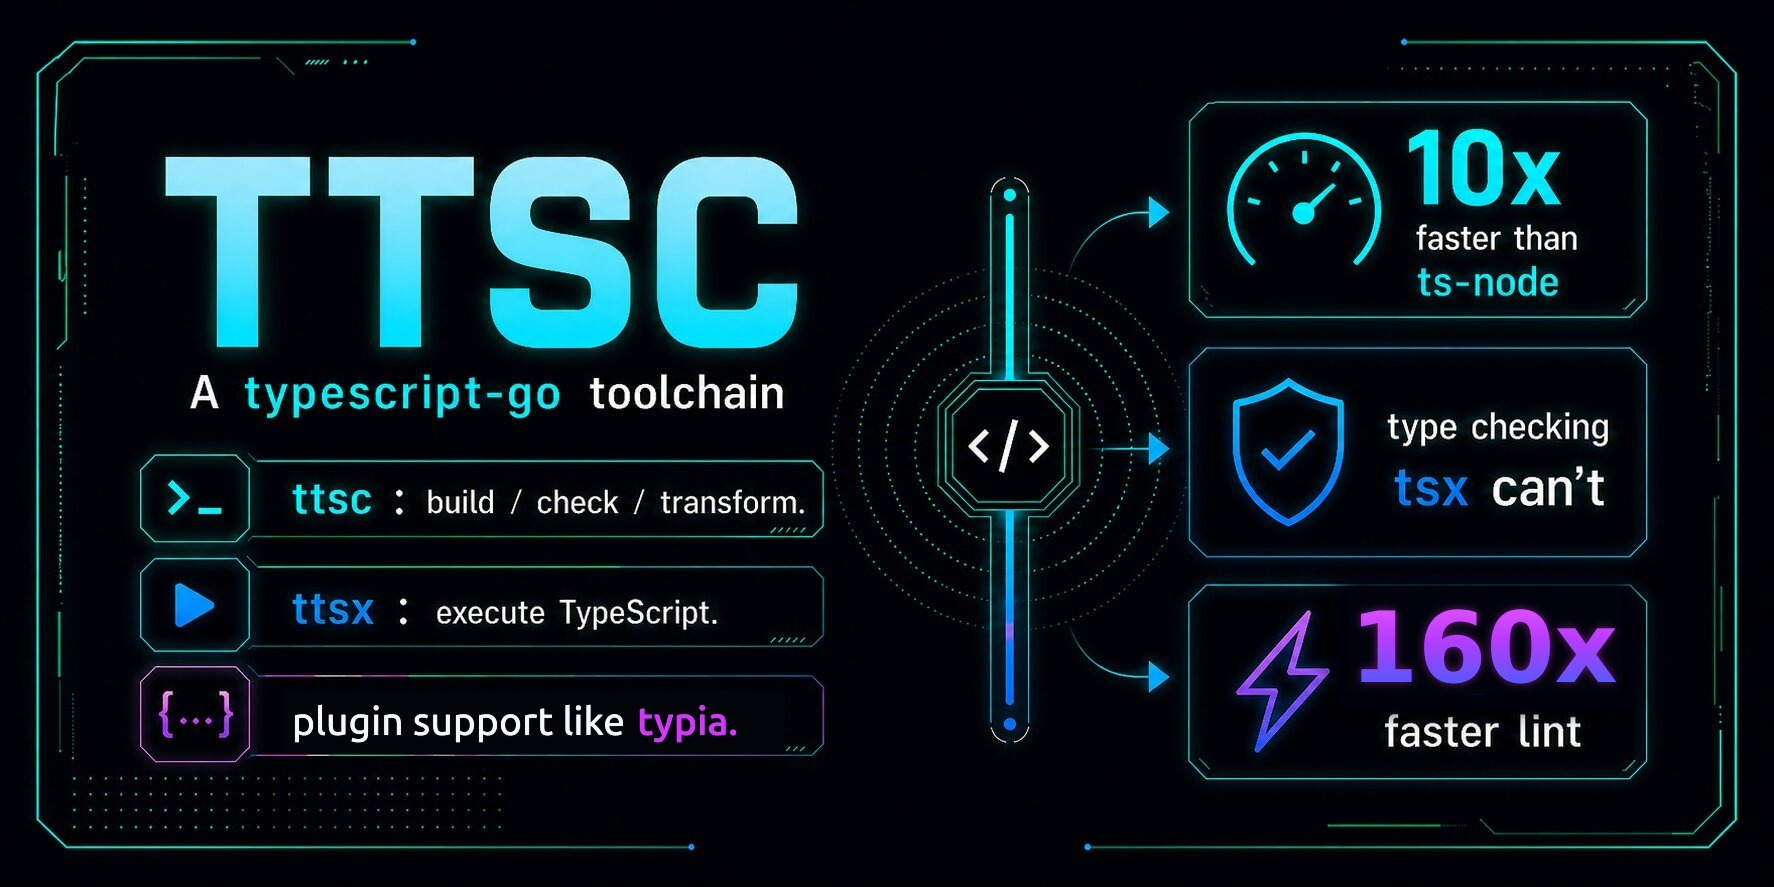
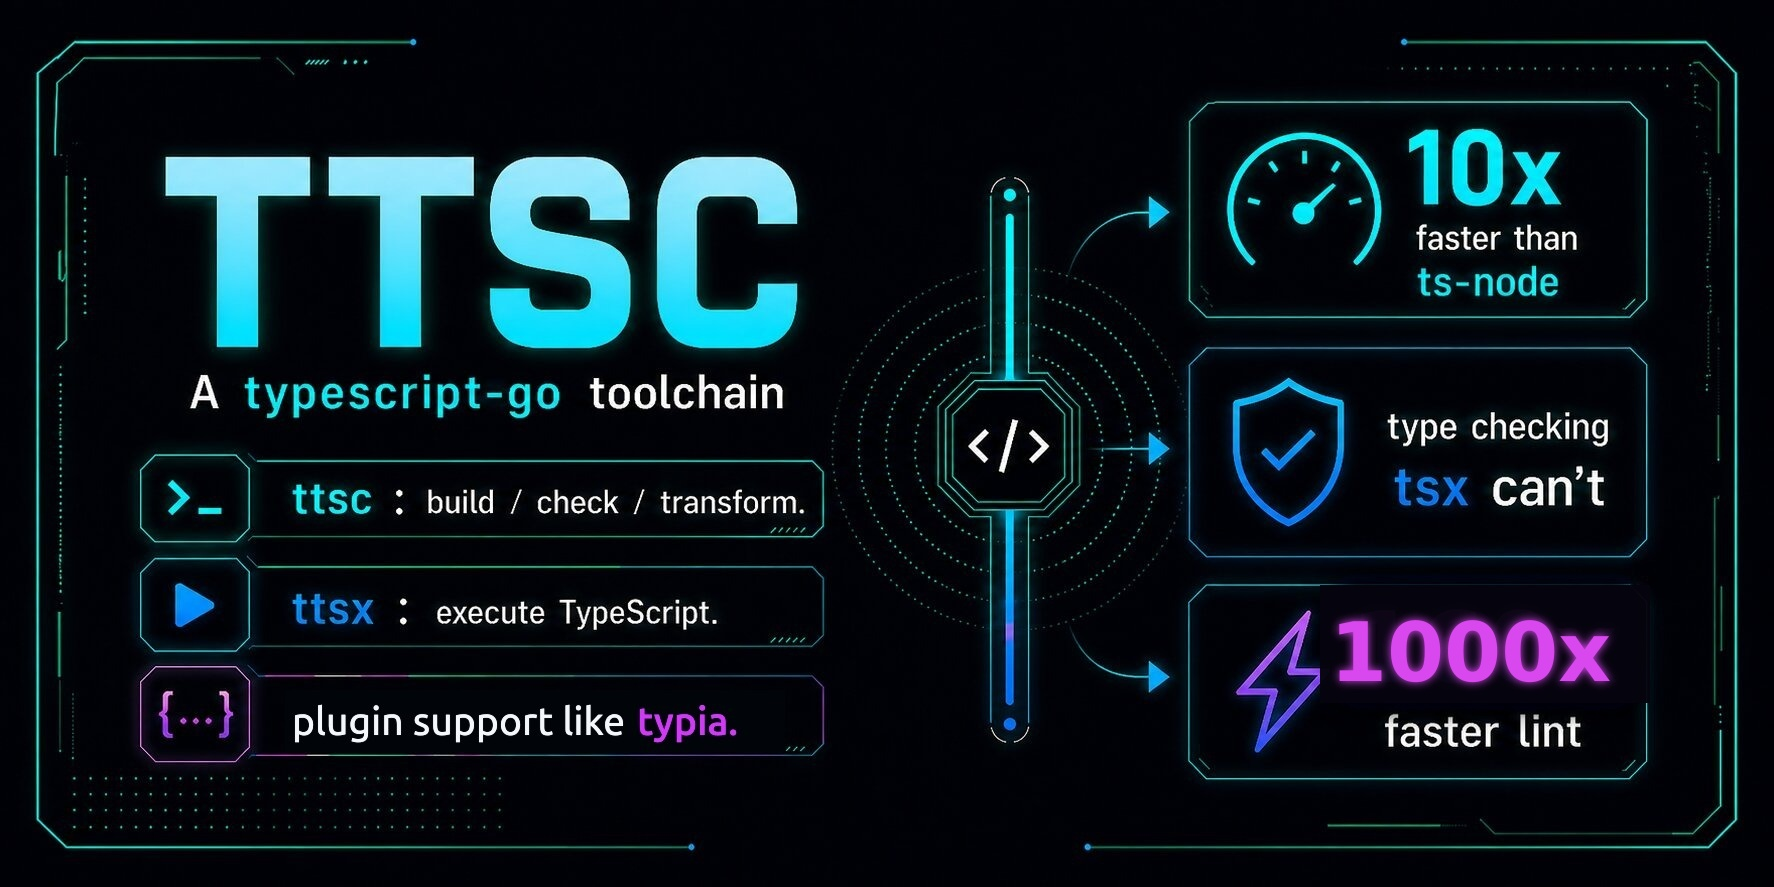
docs(benchmark): publish refreshed lint metrics

Changed region(s): [[0.7441, 0.6697, 0.9301, 0.7914]]

diff --git a/website/src/components/benchmark/BenchmarkDashboard.tsx b/website/src/components/benchmark/BenchmarkDashboard.tsx
@@ -414,8 +414,8 @@ function ProjectLintRows({
   // Lint's "best" is the lint-pass-only ratio (ESLint time vs @ttsc/lint
   // overhead) — that's the multiplier the dashboard is actually selling.
   // Total-stack ratio (`tsc + eslint` vs `ttsc + @ttsc/lint`) lives in the
-  // bars on the right and reads ~10–20x; the isolated lint factor reads
-  // ~50x+ because eslint alone is the slow side.
+  // bars on the right; the isolated lint factor can be hundreds of times
+  // larger because eslint alone is the slow side.
   const best = rows
     .filter((row) => !row.baseline && (row.lintFactor ?? 0) > 0)
     .reduce<{ factor: number; label: string } | undefined>((acc, row) => {

diff --git a/website/src/movies/landing/Hero.tsx b/website/src/movies/landing/Hero.tsx
@@ -7,7 +7,7 @@ const CLAIMS = [
     detail: "Up to 10x faster than JavaScript tsc through TypeScript-Go.",
   },
   {
-    value: "20x",
+    value: "1000x",
     label: "faster lint loop",
     detail: "@ttsc/lint uses the same program and checker, no second parse.",
   },